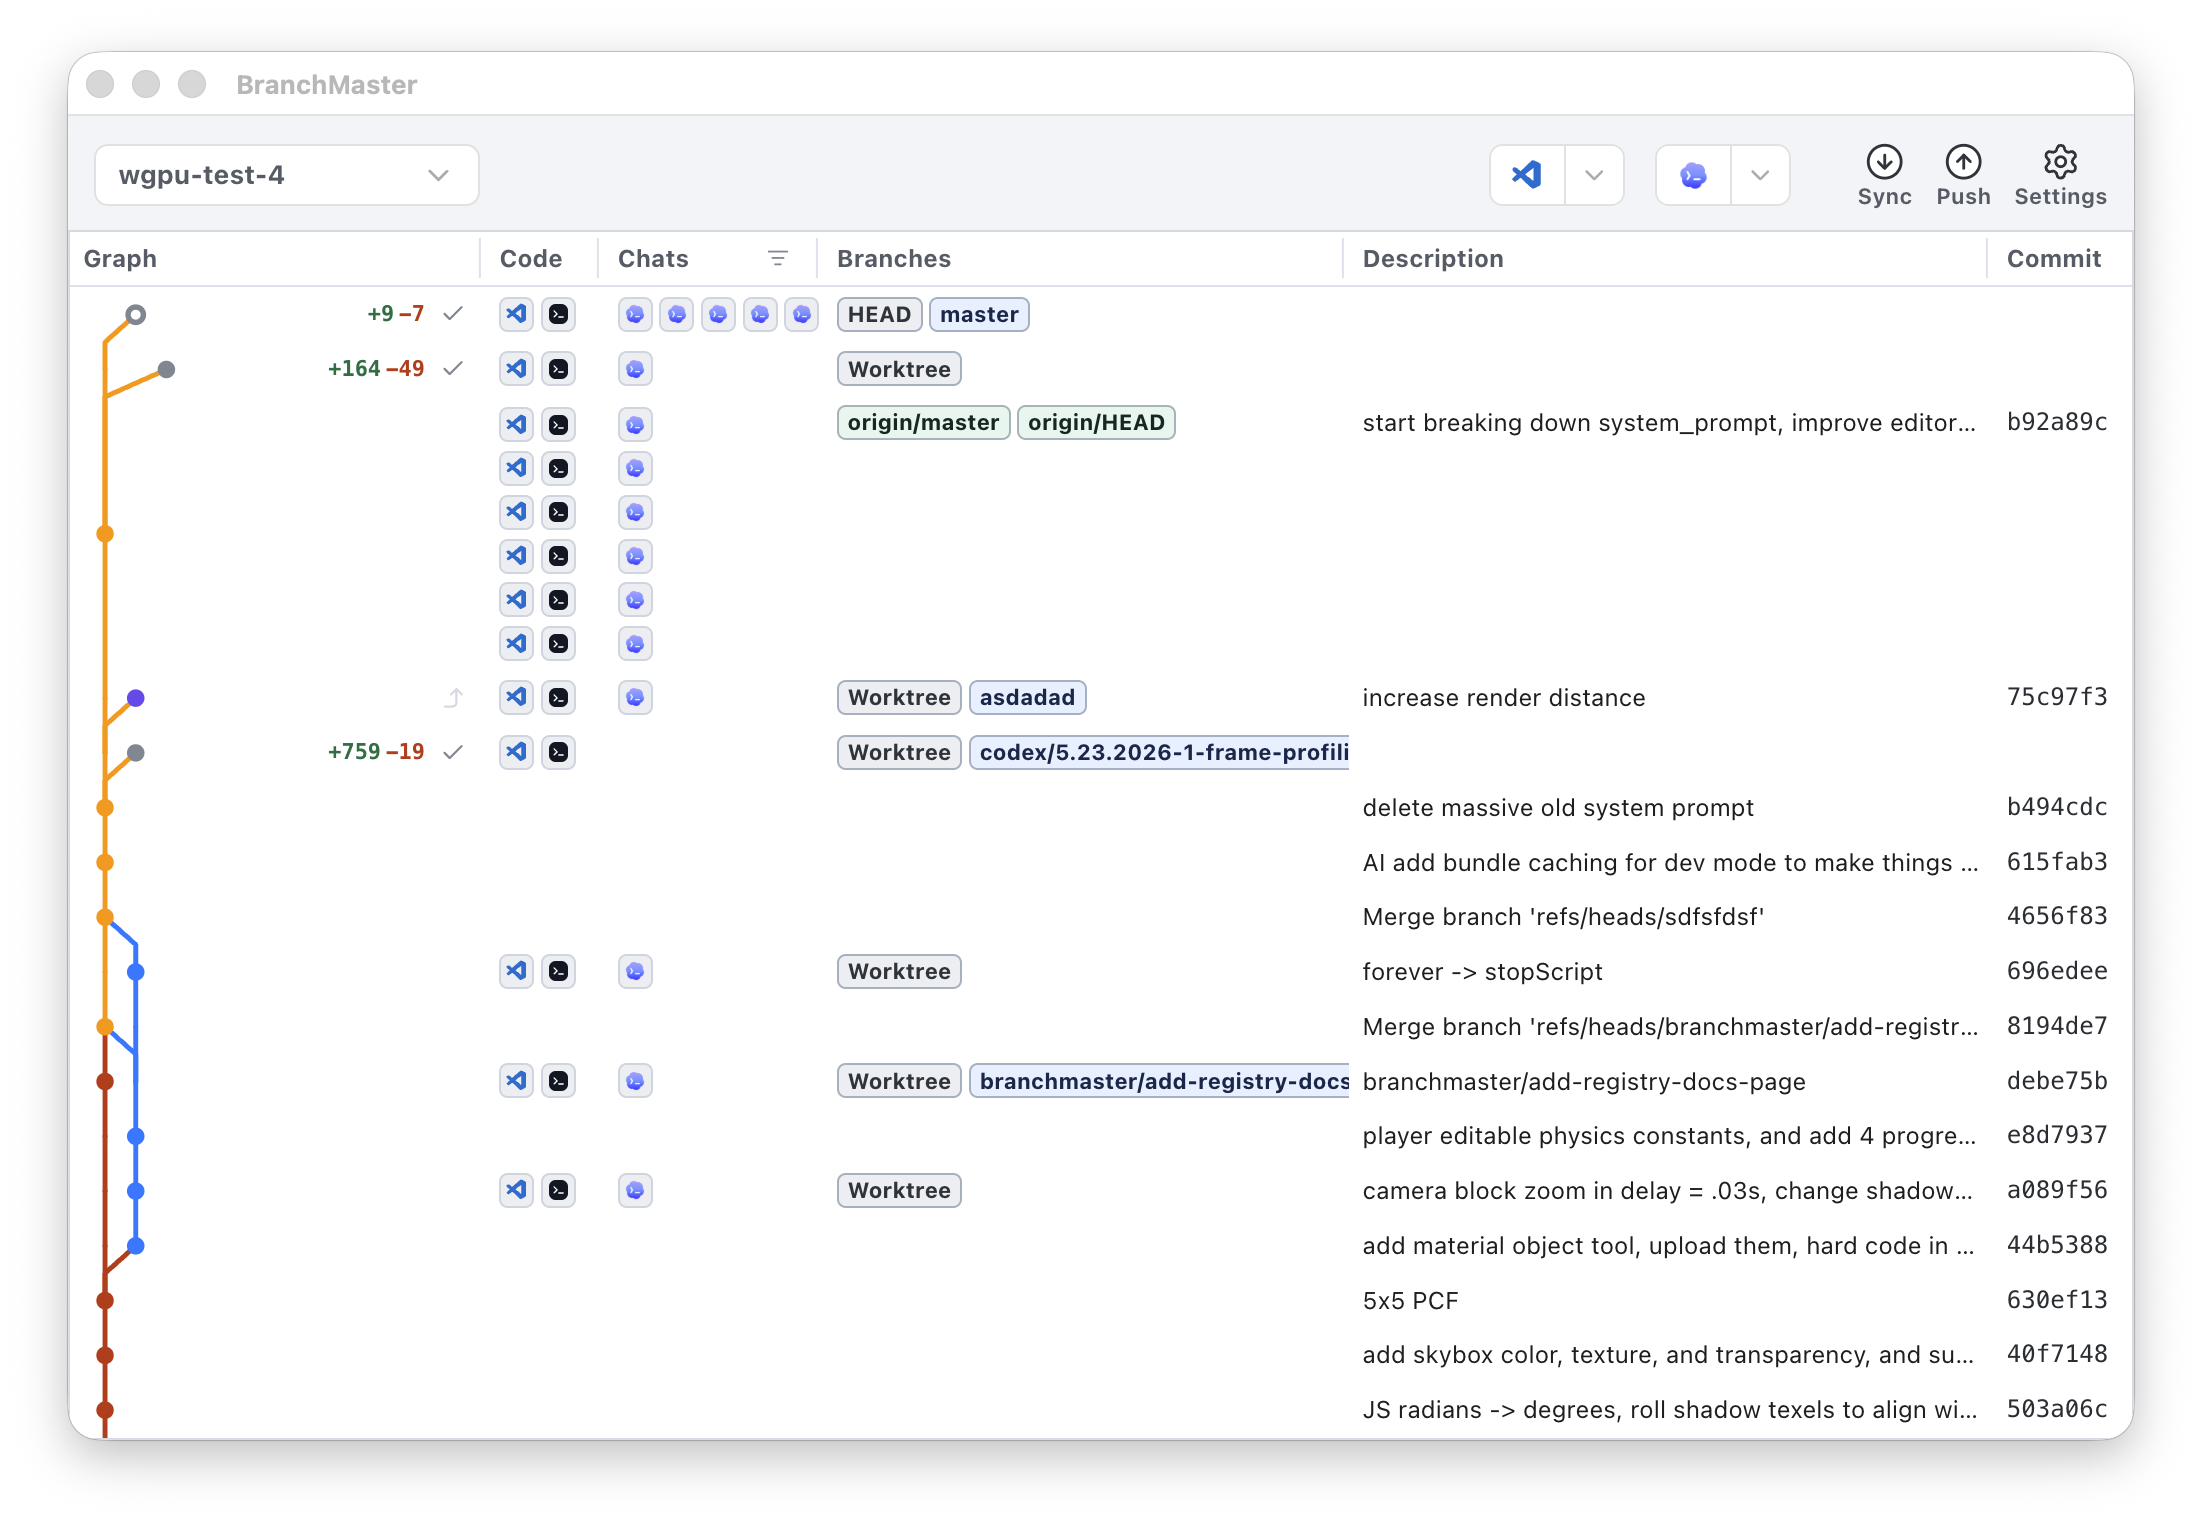
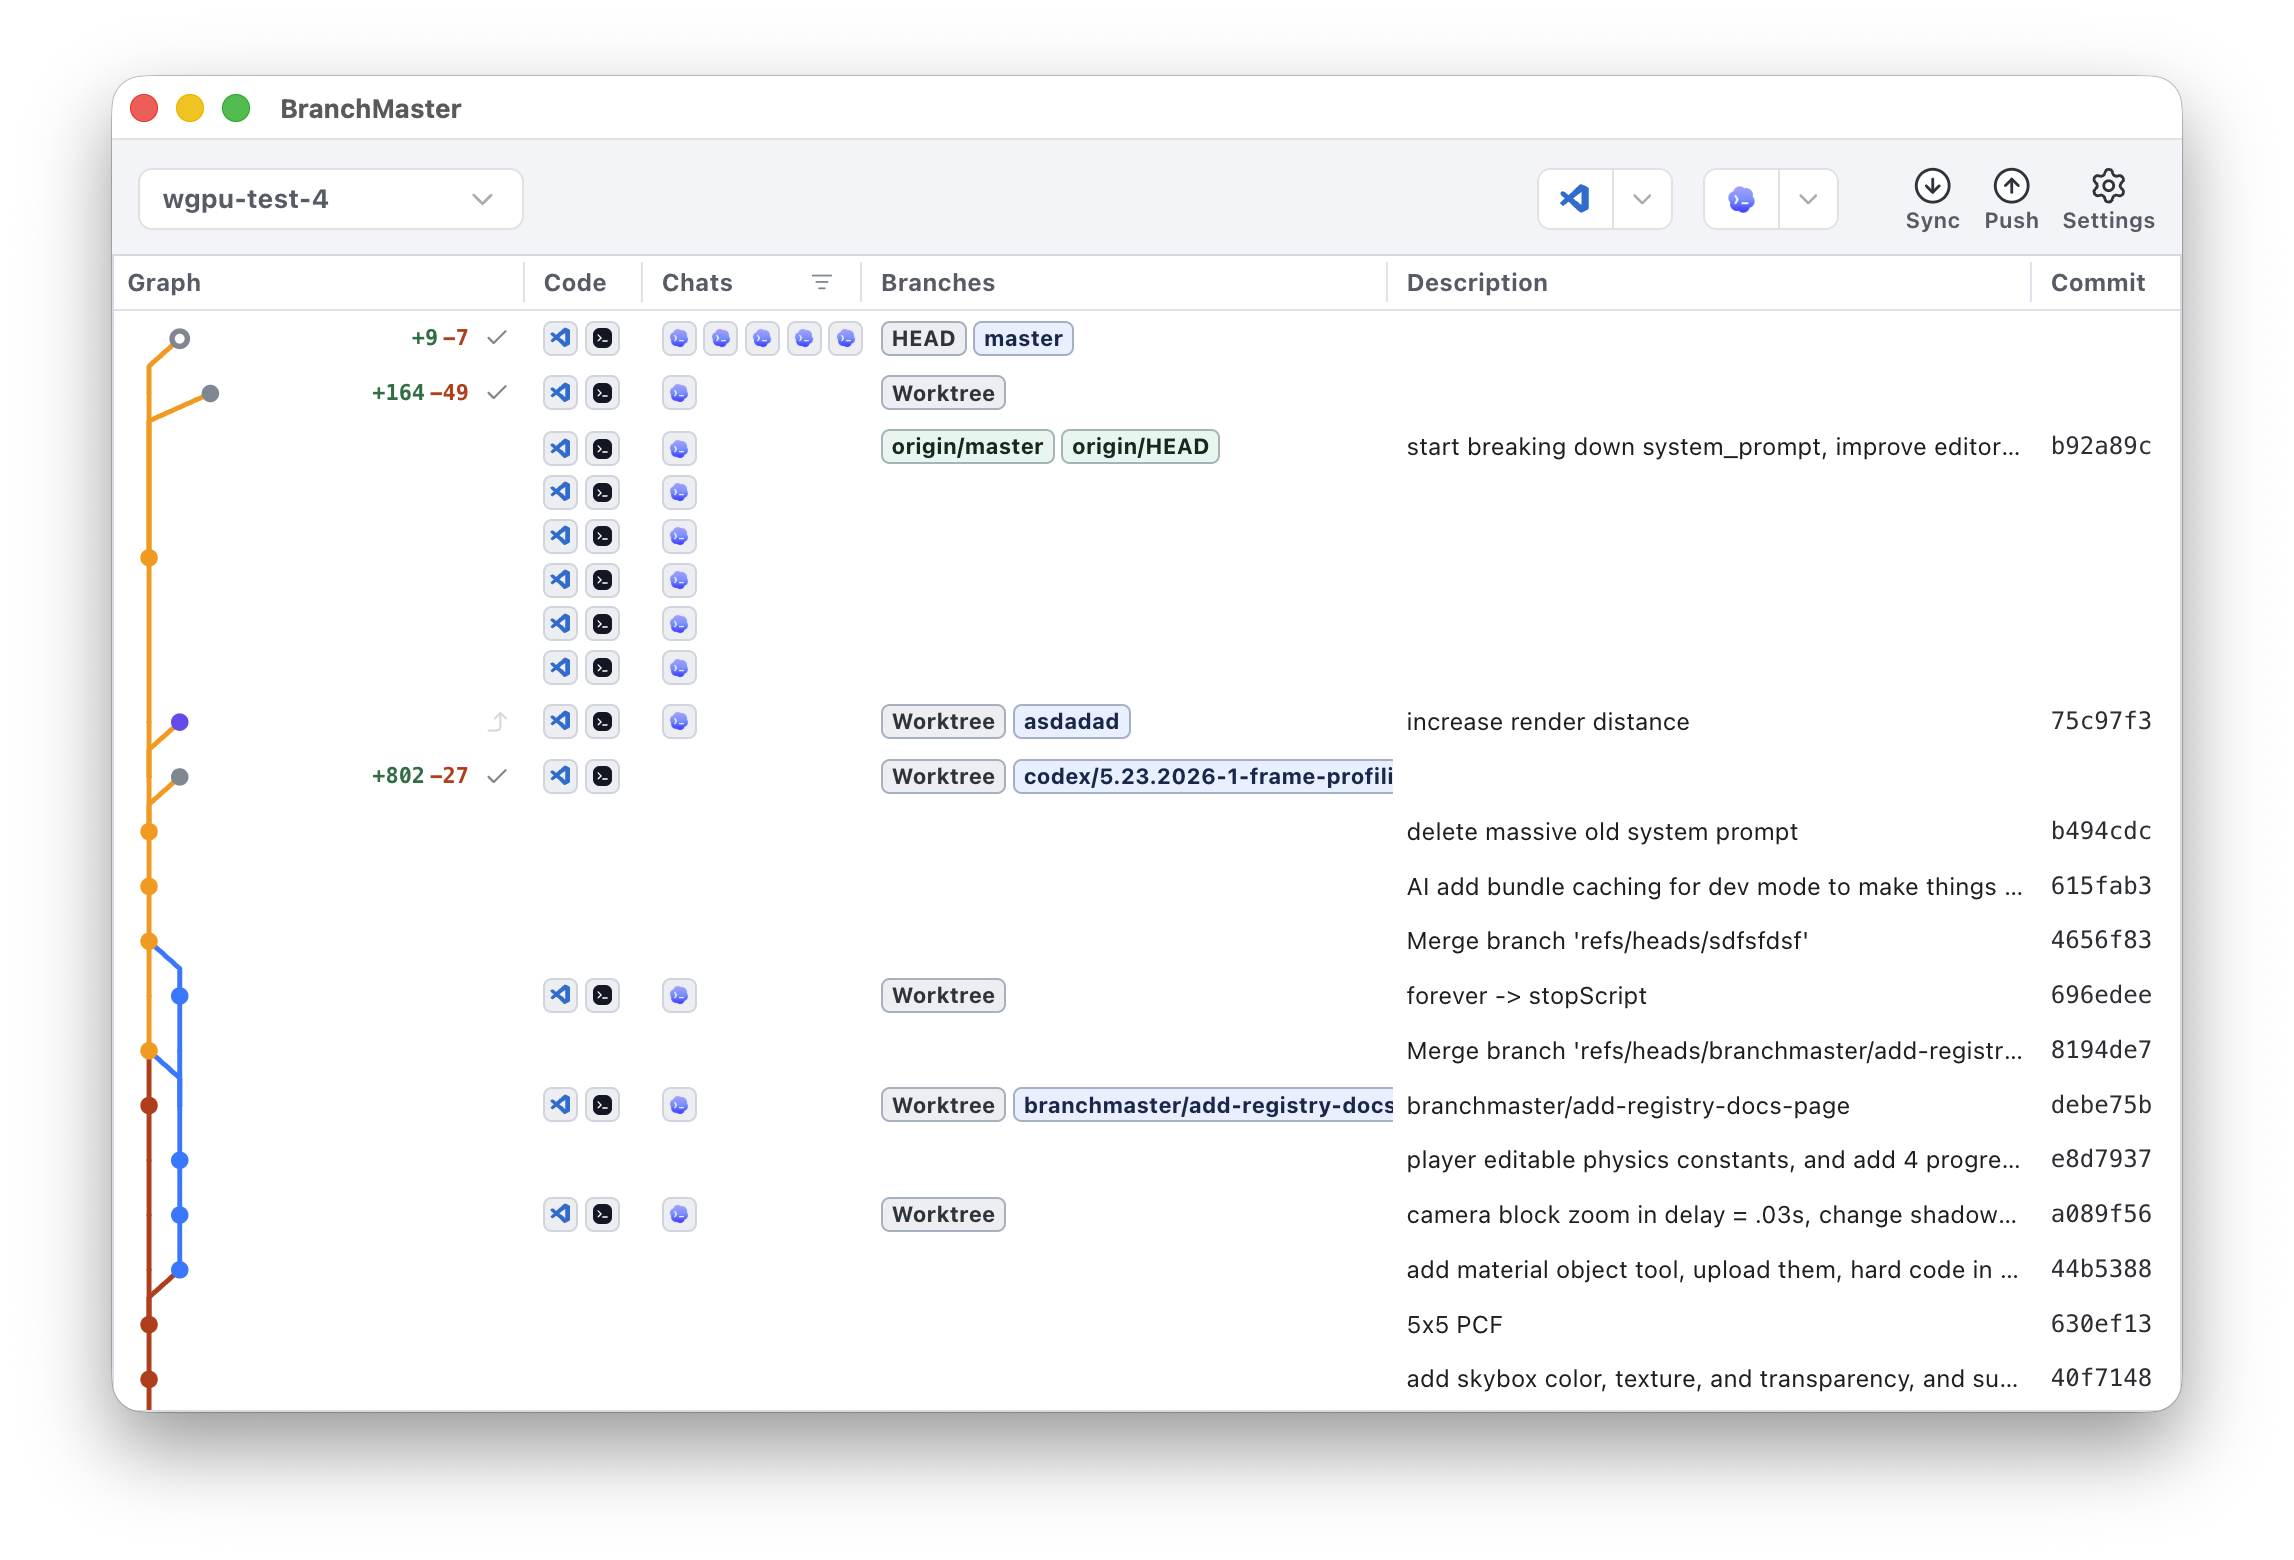
Update product screenshot

diff --git a/README.md b/README.md
@@ -34,6 +34,6 @@ Download BranchMaster on our website: https://branchmaster.dev.
 		src="./website/src/assets/product-screenshot.png"
 		alt="BranchMaster app showing Codex chats, worktrees, branches, and Git history"
 		width="1000"
-		height="692"
+		height="680"
 	/>
 </div>